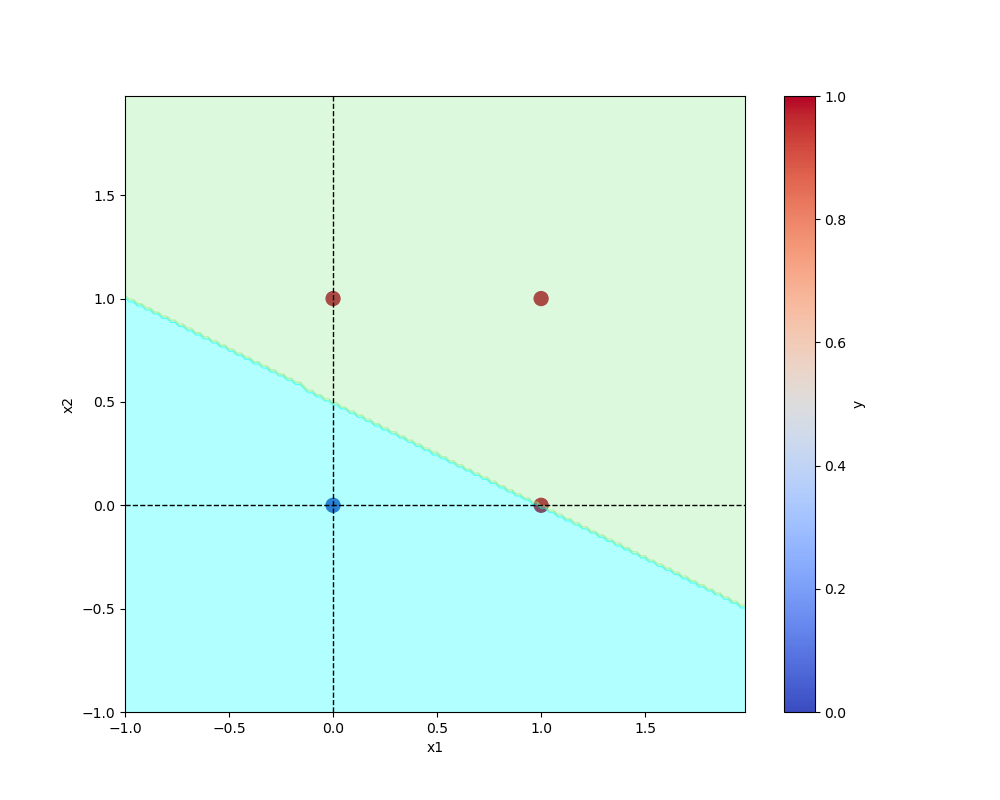
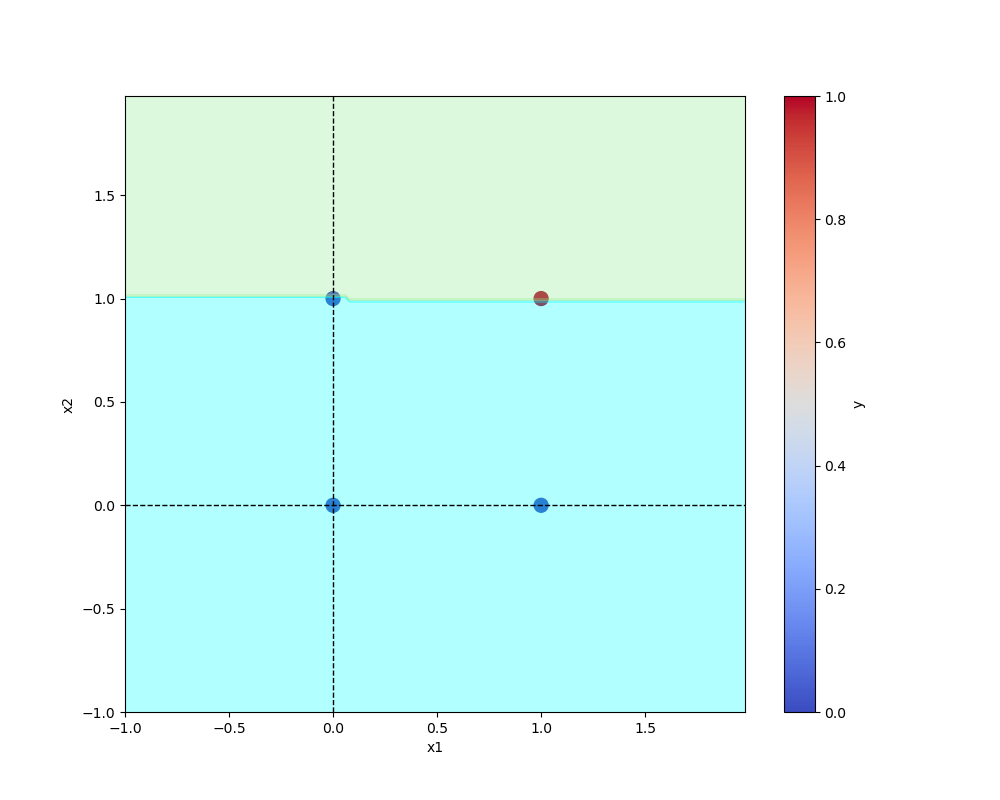
add model created

Changed region(s): [[0.124, 0.3438, 0.744, 0.7812]]

diff --git a/and.py b/and.py
@@ -1,0 +1,27 @@
+from utils.all_utils import prepare_data,save_plot
+from utils.model import Perceptron
+import pandas as pd
+
+def main(data,modelName,plotName,eta,epochs):
+    df_AND=pd.DataFrame(data)
+
+    X,y=prepare_data(df_AND,target_column="y")
+
+    model=Perceptron(eta=eta,epochs=epochs)
+    model.fit(X,y)
+    _=model.total_loss()
+
+    model.save(filename=modelName,model_dir="model")
+
+    save_plot(df_AND, model, filename=plotName)
+
+if __name__=="__main__":  
+    AND={
+        "x1":[0,0,1,1],
+        "x2":[0,1,0,1],
+        "y":[0,0,0,1]
+    }
+    ETA=0.3
+    EPOCHS=10
+    main(data=AND,modelName="and.model",plotName="and.png",eta=ETA,epochs=EPOCHS)
+   

diff --git a/or.py b/or.py
@@ -3,7 +3,7 @@ from utils.model import Perceptron
 import pandas as pd
 
 def main(data,modelName,plotName,eta,epochs):
-    df_OR=pd.DataFrame(OR)
+    df_OR=pd.DataFrame(data)
 
     X,y=prepare_data(df_OR,target_column="y")
 
